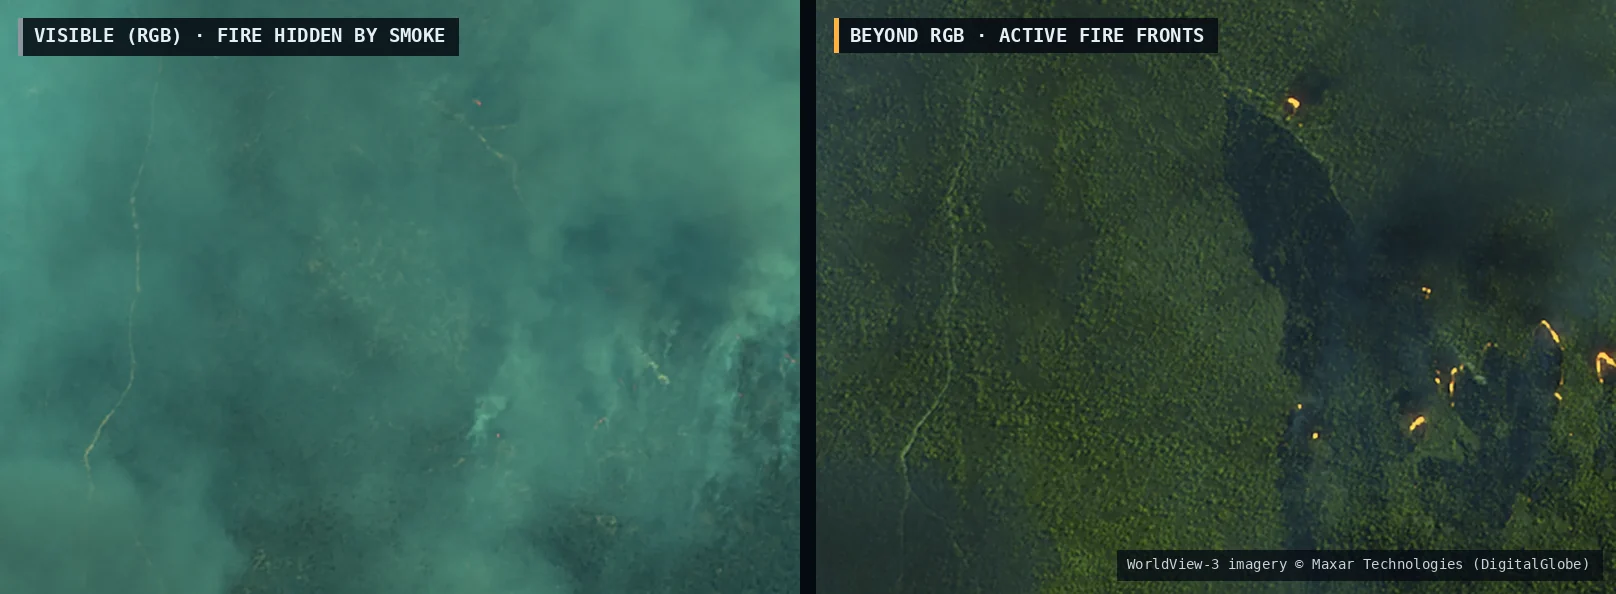
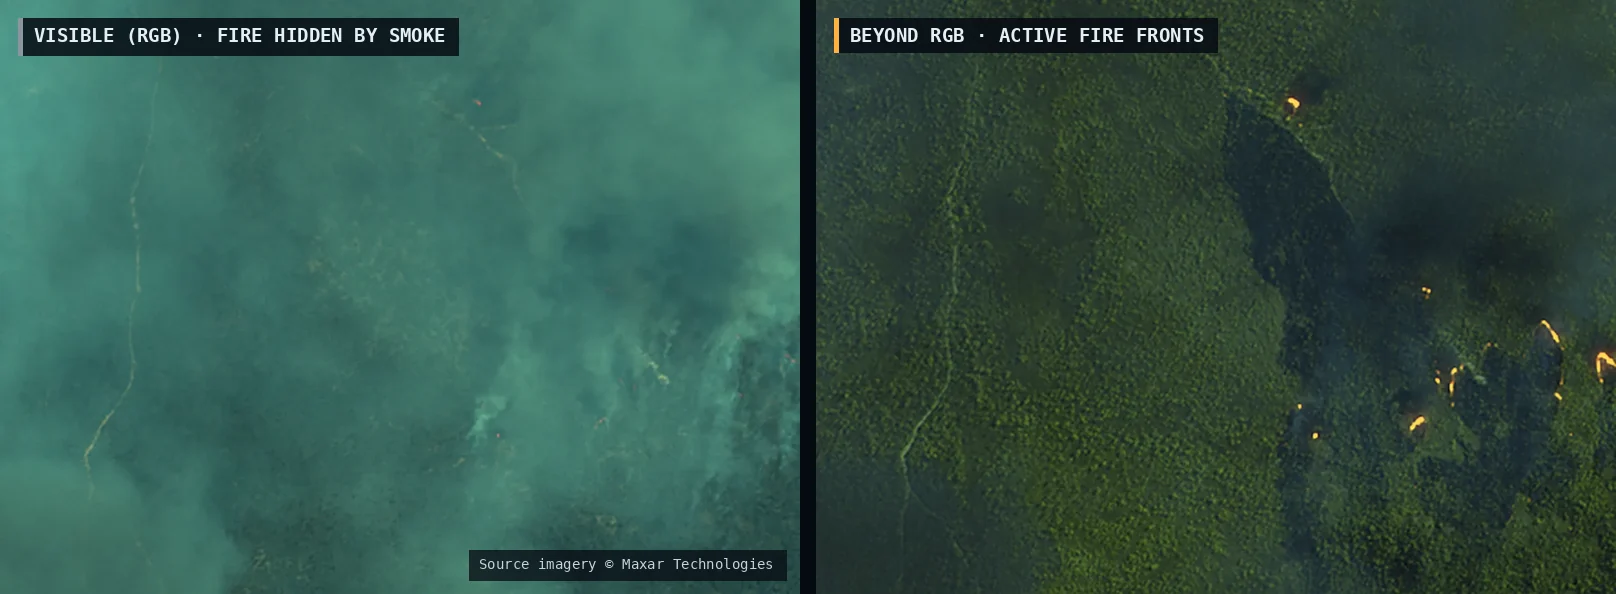
Credit source imagery on the RGB panel only
Claude-Session: https://claude.ai/code/session_019xPopQDJCoXJ7moyWnaQzc

Changed region(s): [[0.6807, 0.9091, 0.9901, 1.0], [0.2785, 0.9091, 0.495, 1.0]]

diff --git a/README.md b/README.md
@@ -17,7 +17,7 @@ Over 10+ years I've delivered imagery and vision systems for defense, maritime, 
 
 <img src="assets/wildfire-before-after.webp" width="100%" alt="The same forest scene in visible light, where smoke hides the fire, and measured beyond the visible spectrum, showing active fire fronts and the burn scar.">
 
-<sub>Same scene, two measurements. In visible light the fire is hidden by smoke; measured beyond RGB, the active fire fronts and burn scar emerge. WorldView-3 imagery © Maxar Technologies (DigitalGlobe).</sub>
+<sub>Same scene, two measurements. In visible light the fire is hidden by smoke; measured beyond RGB, the active fire fronts and burn scar emerge. Source imagery © Maxar Technologies; processed result is my own work.</sub>
 
 | Problem | Approach | Result |
 |---|---|---|
